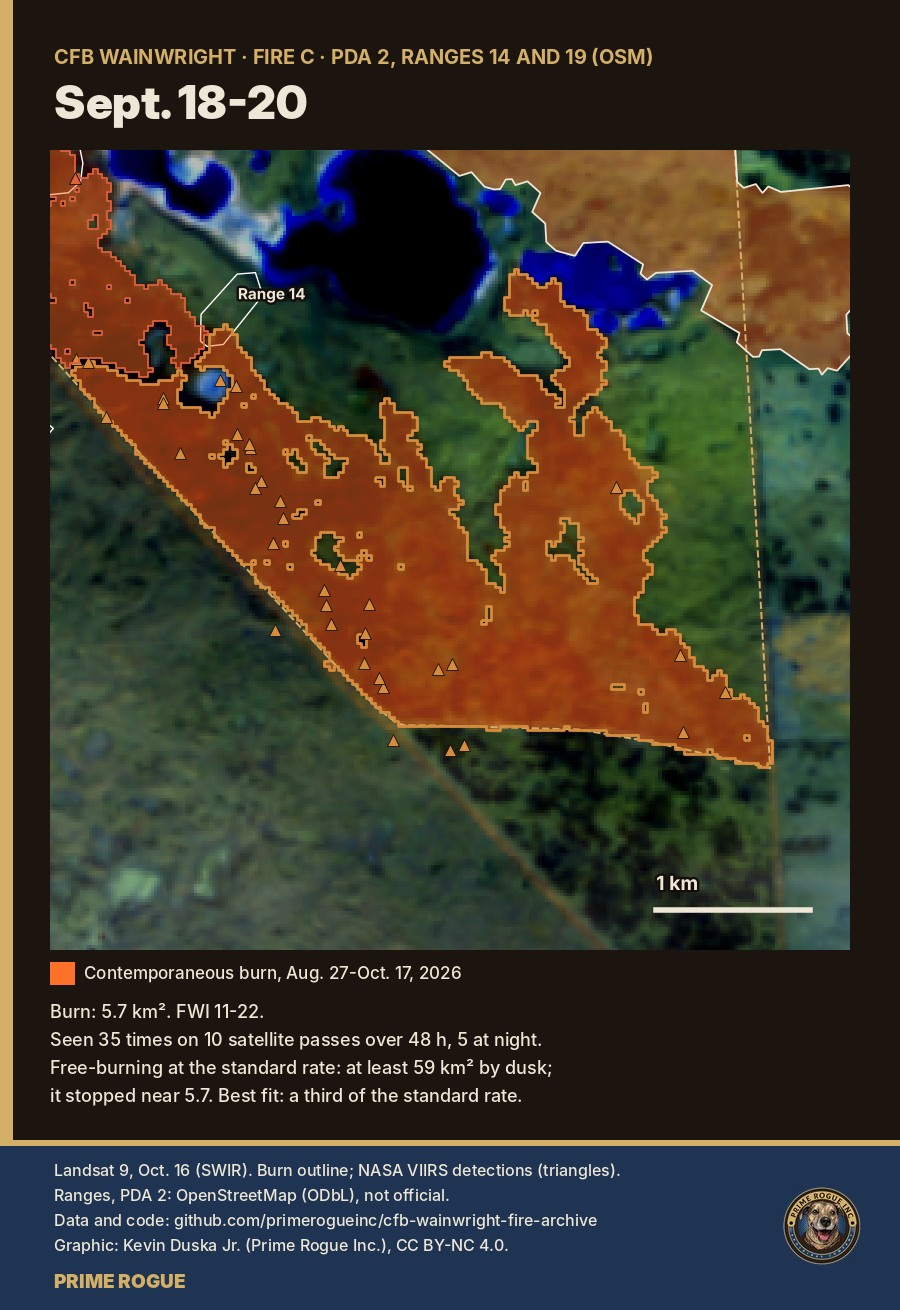
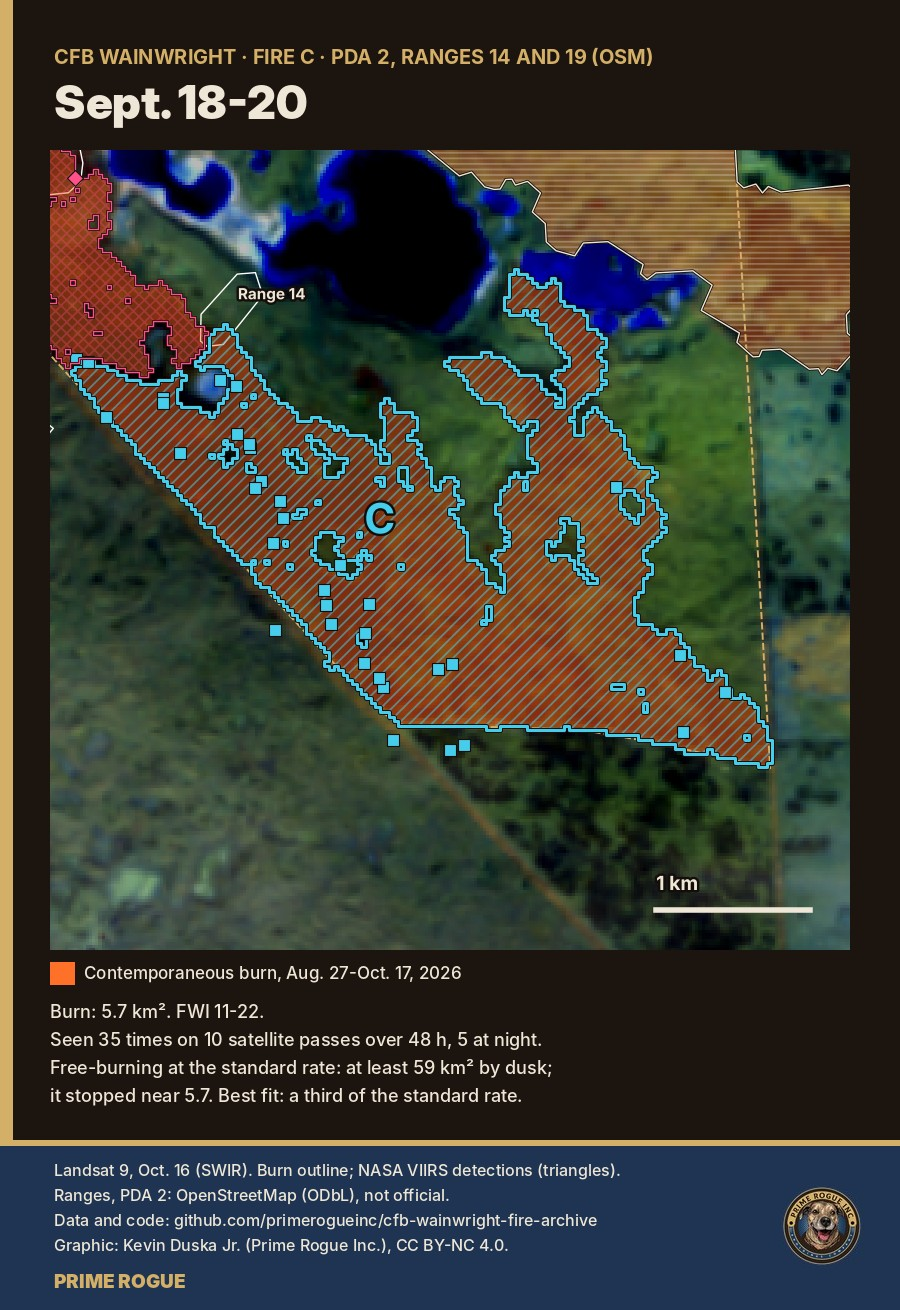
Fire maps: each fire gets its own colour, hatching, letter and detection marker over the common burn fill
Claude-Session: https://claude.ai/code/session_012q8DP5dH322QPmsftUvE6c

Changed region(s): [[0.0622, 0.0916, 0.9644, 0.6107]]

diff --git a/scripts/maps/g36_fires_overview.py b/scripts/maps/g36_fires_overview.py
@@ -8,8 +8,11 @@ from rasterio.transform import from_origin
 from pyproj import Transformer
 import matplotlib.patheffects as pe
 from matplotlib.patches import Rectangle
+matplotlib.rcParams['hatch.linewidth'] = 1.3
 tf = Transformer.from_crs(4326, 3400, always_xy=True).transform
 FC = REPO + "data/fire_compare/"
+HATCH = {"aug27_28": "\\\\\\", "sept16": "...", "sept18_20": "///", "oct14": "xxx", "oct17": "---"}
+MARK = {"aug27_28": "v", "sept16": "o", "sept18_20": "s", "oct14": "D", "oct17": "^"}
 BURN = (255, 112, 40)  # one fill for every burn from Aug. 27-Oct. 17, 2026
 LEG = "Contemporaneous burn, Aug. 27-Oct. 17, 2026"
 F = pd.read_csv(REPO + "data/firms/history_2012-2026/all_detections_merged.csv"); F = F[F.source.str.contains("VIIRS|LANDSAT") & (F.acq_date >= "2026-08-27") & (F.acq_date <= "2026-10-17")]
@@ -22,10 +25,10 @@ def scar(f):
 def summ(f):
     p = FC + f + "/summary.json"; return json.load(open(p)) if os.path.exists(p) else None
 FIRES = [  # id, label, date filter, colour, box half-size (m)
-    ("aug27_28", "A", "Aug. 27-28, Sept. 21", ["2026-08-27", "2026-08-28", "2026-09-21"], (200, 120, 200), 2400),
-    ("sept16", "B", "Sept. 16", ["2026-09-16"], (150, 200, 120), 900),
-    ("sept18_20", "C", "Sept. 18-20", ["2026-09-18", "2026-09-19", "2026-09-20"], (214, 140, 60), 2600),
-    ("oct14", "D", "Oct. 14", ["2026-10-14"], RED, 1200),
+    ("aug27_28", "A", "Aug. 27-28, Sept. 21", ["2026-08-27", "2026-08-28", "2026-09-21"], (190, 120, 255), 2400),
+    ("sept16", "B", "Sept. 16", ["2026-09-16"], (120, 225, 120), 900),
+    ("sept18_20", "C", "Sept. 18-20", ["2026-09-18", "2026-09-19", "2026-09-20"], (70, 205, 235), 2600),
+    ("oct14", "D", "Oct. 14", ["2026-10-14"], (255, 80, 140), 1200),
     ("oct17", "E", "Oct. 17", ["2026-10-17"], CREAM, 3000)]
 x0, y0 = tf(-111.10, 52.845); x1, y1 = tf(-110.82, 52.695); RES = 20; W_, H_ = int((x1 - x0) / RES), int((y0 - y1) / RES); T = from_origin(x0, y0, RES, RES)
 L = glob.glob("/home/claude/cfb-wainwright-landsat-8-9/landsat/2026-10-16/*/*B7.TIF")[0].replace("B7.TIF", "B%s.TIF")
@@ -42,13 +45,18 @@ def draw(ax, focus=None):
         c = g.representative_point(); ax.annotate(nm, (c.x, c.y), (4, 4), textcoords="offset points", **st(CREAM, 9 if focus is None else 11))
     for fid, lab, nm, dates, col, half in FIRES:
         g = s17 if fid == "oct17" else scar(fid)
-        if g is not None: g.plot(ax=ax, color=hx(BURN), alpha=0.45, lw=0); g.boundary.plot(ax=ax, color=hx(col), lw=2.0 if focus == fid else 1.3)
+        if g is not None:
+            g.plot(ax=ax, color=hx(BURN), alpha=0.42, lw=0)
+            g.plot(ax=ax, facecolor="none", edgecolor=hx(col), hatch=HATCH[fid], lw=0, alpha=0.55 if focus in (None, fid) else 0.3)
+            g.boundary.plot(ax=ax, color=hx(INK), lw=3.6 if focus in (None, fid) else 2.2); g.boundary.plot(ax=ax, color=hx(col), lw=2.2 if focus in (None, fid) else 1.0)
+            if focus is None or focus == fid:
+                c = g.geometry.union_all().representative_point(); ax.text(c.x, c.y, lab, ha="center", va="center", **st(col, 22 if focus is None else 30))
         d = F[F.acq_date.isin(dates)]
         if fid == "oct17": d = d[d.mdt.dt.hour < 15]
         else:
             c = {"aug27_28": (52.728, -111.04), "sept16": (52.825, -110.858), "sept18_20": (52.73, -110.91), "oct14": (52.7549, -110.9389)}[fid]
             d = d[np.hypot((d.latitude - c[0]) * 111, (d.longitude - c[1]) * 67.4) < 4]
-        px, py = tf(d.longitude.values, d.latitude.values); ax.plot(px, py, "^", ms=5 if focus is None else 8, mfc=hx(col), mec=hx(INK), mew=0.6)
+        px, py = tf(d.longitude.values, d.latitude.values); ax.plot(px, py, MARK[fid], ms=5 if focus is None else 8, mfc=hx(col), mec=hx(INK), mew=0.8)
 CENT = {}
 for fid, lab, nm, dates, col, half in FIRES:
     g = s17 if fid == "oct17" else scar(fid)
@@ -57,7 +65,7 @@ for fid, lab, nm, dates, col, half in FIRES:
 f, ax = fig(980, 760); draw(ax)
 for fid, lab, nm, dates, col, half in FIRES:
     cx, cy = CENT[fid]; ax.add_patch(Rectangle((cx - half, cy - half), 2 * half, 2 * half, fill=False, ec=hx(col), lw=2.2))
-    ax.text(cx - half + 120, cy + half - 420, lab, **st(col, 22))
+    if fid == "sept16": ax.text(cx - half + 120, cy + half - 420, lab, **st(col, 22))
 x, y = tf(-111.0, 52.792); ax.text(x, y, "Permanent Danger Area 2\n(dashed, OpenStreetMap)", **st(GOLD, 12))
 xb = EXT[1] - 2600; yb = EXT[2] + 500; ax.plot([xb, xb + 2000], [yb, yb], color=hx(CREAM), lw=3); ax.text(xb, yb + 150, "2 km", **st(CREAM, 11))
 ax.set_xlim(EXT[0], EXT[1]); ax.set_ylim(EXT[2], EXT[3]); ax.set_axis_off(); f.subplots_adjust(0, 0, 1, 1); OV = to_img(f)
@@ -72,10 +80,10 @@ for fid, lab, nm, dates, col, half in FIRES:
 W, H = 1600, 1560
 im, d = canvas(W, H, "CFB WAINWRIGHT FIRE · EVERY FIRE SATELLITES SAW, AUG. 27-OCT. 17, 2026",
                "Five fires in seven weeks, all but one inside permanent danger areas",
-               "Boxes A-E on the overview map are shown up close below. Outlines: burn scars from Sentinel-2 (Oct. 4) and Landsat 9 (Oct. 16); triangles: NASA VIIRS fire detections.\n"
+               "Boxes A-E on the overview map are shown up close below. Outlines: burn scars from Sentinel-2 (Oct. 4) and Landsat 9 (Oct. 16); markers: NASA VIIRS fire detections.\n"
                "Background: Landsat 9 shortwave infrared, Oct. 16 (before the Oct. 17 fire; its outline is the final scar).")
 im.paste(OV, (54, 205)); d = ImageDraw.Draw(im)
-d.rectangle([70, 205 + 760 - 44, 96, 205 + 760 - 22], fill=BURN); label(d, (104, 205 + 760 - 48), LEG + "  (outline colour = fire A-E; A also includes older burns)", col=CREAM, size=15)
+d.rectangle([70, 205 + 760 - 44, 96, 205 + 760 - 22], fill=BURN); label(d, (104, 205 + 760 - 48), "Orange fill: contemporaneous burn, Aug. 27-Oct. 17, 2026. Each fire: its own colour, hatching, letter and marker.", col=CREAM, size=14)
 # right column: comparison list
 xr = 54 + 980 + 30; y = 205
 d.text((xr, y), "How each fire behaved", font=B(22), fill=GOLD); y += 40
@@ -99,8 +107,10 @@ def fmt(fid):
     if fid == "aug27_28": out.append("Seen again Sept. 21, 1:42-3:23 p.m., same scar.")
     return out
 for fid, lab, nm, dates, col, half in FIRES:
-    d.text((xr, y), f"{lab}  {nm}", font=B(19), fill=col); y += 28
-    for l in fmt(fid): d.text((xr + 30, y), l, font=M(15), fill=CREAM); y += 23
+    d.rectangle([xr, y + 2, xr + 34, y + 24], fill=BURN, outline=col, width=4)
+    MK = {"aug27_28": "▼", "sept16": "●", "sept18_20": "■", "oct14": "◆", "oct17": "▲"}[fid]
+    d.text((xr + 44, y), f"{lab}  {nm}", font=B(19), fill=col); d.text((xr + 44 + d.textlength(f"{lab}  {nm}", font=B(19)) + 10, y + 1), MK, font=M(17), fill=col); y += 28
+    for l in fmt(fid): d.text((xr + 44, y), l, font=M(15), fill=CREAM); y += 23
     y += 12
 # panels
 py = 205 + 760 + 30

diff --git a/scripts/maps/g35_oct14_fire.py b/scripts/maps/g35_oct14_fire.py
@@ -7,6 +7,8 @@ from rasterio.warp import reproject, Resampling
 from rasterio.transform import from_origin
 from pyproj import Transformer
 import matplotlib.patheffects as pe
+matplotlib.rcParams['hatch.linewidth'] = 1.3
+CC, CD = (70, 205, 235), (255, 80, 140)
 tf = Transformer.from_crs(4326, 3400, always_xy=True).transform
 BR = gpd.read_file(REPO + "data/oct14_fire/burns.geojson").to_crs(3400)
 scar = gpd.read_file(REPO + "data/infrastructure/scar_patches_revised.geojson").to_crs(3400); s17 = scar[scar.patch == "main Oct 17 run"]
@@ -34,16 +36,16 @@ SEPT = gpd.GeoSeries([_shape(g) for g, v in _ft.shapes(sept.astype("uint8"), mas
 lo, hi = np.percentile(rgb, 2, axis=(0, 1)), np.percentile(rgb, 98, axis=(0, 1)); rgb = np.clip((rgb - lo) / (hi - lo), 0, 1) * 0.75
 f, ax = fig(860, 860); ax.imshow(rgb, extent=[x0, x0 + W_ * RES, y0 - H_ * RES, y0])
 pda2.boundary.plot(ax=ax, color=hx(GOLD), lw=1.6, ls="--")
-s17.plot(ax=ax, color=hx((255, 112, 40)), alpha=0.45, lw=0); s17.boundary.plot(ax=ax, color=hx(CREAM), lw=1.2)
-SEPT.plot(ax=ax, color=hx((255, 112, 40)), alpha=0.45, lw=0); SEPT.boundary.plot(ax=ax, color=hx((214, 140, 60)), lw=1.0)
-BR[BR.name == "oct14_burn"].plot(ax=ax, color=hx((255, 112, 40)), alpha=0.45, lw=0); BR[BR.name == "oct14_burn"].boundary.plot(ax=ax, color=hx(RED), lw=1.5)
-fx, fy = tf(F.longitude.values, F.latitude.values); ax.plot(fx, fy, "^", ms=6, mfc="none", mec=hx(YEL), mew=1.4)
-vx, vy = tf(-110.93891, 52.75486); ax.plot(vx, vy, "^", ms=12, mfc=hx(YEL), mec=hx(INK), mew=1.2)
+s17.plot(ax=ax, color=hx((255, 112, 40)), alpha=0.42, lw=0); s17.plot(ax=ax, facecolor="none", edgecolor=hx(CREAM), hatch="---", lw=0, alpha=0.5); s17.boundary.plot(ax=ax, color=hx(CREAM), lw=1.6)
+SEPT.plot(ax=ax, color=hx((255, 112, 40)), alpha=0.42, lw=0); SEPT.plot(ax=ax, facecolor="none", edgecolor=hx(CC), hatch="///", lw=0, alpha=0.55); SEPT.boundary.plot(ax=ax, color=hx(INK), lw=3.4); SEPT.boundary.plot(ax=ax, color=hx(CC), lw=2.0)
+O14 = BR[BR.name == "oct14_burn"]; O14.plot(ax=ax, color=hx((255, 112, 40)), alpha=0.42, lw=0); O14.plot(ax=ax, facecolor="none", edgecolor=hx(CD), hatch="xxx", lw=0, alpha=0.55); O14.boundary.plot(ax=ax, color=hx(INK), lw=3.4); O14.boundary.plot(ax=ax, color=hx(CD), lw=2.0)
+fx, fy = tf(F.longitude.values, F.latitude.values); ax.plot(fx, fy, "s", ms=6, mfc=hx(CC), mec=hx(INK), mew=0.8)
+vx, vy = tf(-110.93891, 52.75486); ax.plot(vx, vy, "D", ms=11, mfc=hx(CD), mec=hx(INK), mew=1.2)
 ig = fit["_sunset"]["top15"][:6]; ix, iy = tf([p["lon"] for p in ig], [p["lat"] for p in ig]); ax.plot(ix, iy, "x", ms=9, mew=2.4, color="white")
 st = dict(color=hx(CREAM), fontsize=13, weight="bold", path_effects=[pe.withStroke(linewidth=3.5, foreground=hx(INK))])
 for nm, (lo_, la_), off in (("Range 11", (-110.9577, 52.7678), (-70, 8)), ("Range 13", (-110.94249, 52.75627), (-82, 2)), ("Range 2", (-110.9063, 52.7728), (8, 6))):
     x, y = tf(lo_, la_); ax.plot(x, y, "o", ms=8, mfc="white", mec="k"); ax.annotate(nm, (x, y), off, textcoords="offset points", **st)
-for txt, (lo_, la_), c in (("Oct. 17 burn", (-110.905, 52.792), CREAM), ("Sept. 18-20 burn", (-110.905, 52.733), (240, 170, 90)), ("Oct. 14 burn", (-110.975, 52.742), RED), ("Permanent Danger Area 2\n(OpenStreetMap)", (-110.982, 52.792), GOLD)):
+for txt, (lo_, la_), c in (("Oct. 17 burn", (-110.905, 52.792), CREAM), ("Sept. 18-20 burn", (-110.905, 52.733), CC), ("Oct. 14 burn", (-110.975, 52.742), CD), ("Permanent Danger Area 2\n(OpenStreetMap)", (-110.982, 52.792), GOLD)):
     x, y = tf(lo_, la_); ax.text(x, y, txt, color=hx(c), fontsize=14, weight="bold", path_effects=[pe.withStroke(linewidth=3.5, foreground=hx(INK))])
 ax.set_xlim(x0, x1); ax.set_ylim(y1, y0); ax.set_axis_off(); f.subplots_adjust(0, 0, 1, 1); mp = to_img(f)
 # right panel: how big it should have been
@@ -72,12 +74,12 @@ for l, fnt, col in (("Free-burning at the standard grass-fire rate, a fire seen 
                     ("fire did before its wind shift, and started early, around", M(16), CREAM), ("6-8:30 a.m. (the earliest we tested). Or it was put out.", M(16), CREAM), ("", M(10), CREAM),
                     ("Satellite fire detections in the training area", B(18), GOLD),
                     ("Sept. 16  1:34 p.m.   north-east of the base", M(15), CREAM), ("Sept. 18  3:14 p.m.   PDA 2, about 5 km SE of the Oct. 14 burn", M(15), CREAM),
-                    ("Sept. 20  3:07 a.m. to 2:55 p.m.   PDA 2, same fire (31)", B(15), (240, 170, 90)), ("Sept. 21  1:42 p.m.   PDA 3A F1, 9.5 km west", M(15), CREAM),
-                    ("Oct. 14   2:51 p.m.   PDA 2, at Range 13", B(15), RED), ("Oct. 17   12:17 p.m. onward   PDA 2", B(15), CREAM)):
+                    ("Sept. 20  3:07 a.m. to 2:55 p.m.   PDA 2, same fire (31)", B(15), CC), ("Sept. 21  1:42 p.m.   PDA 3A F1, 9.5 km west", M(15), CREAM),
+                    ("Oct. 14   2:51 p.m.   PDA 2, at Range 13", B(15), CD), ("Oct. 17   12:17 p.m. onward   PDA 2", B(15), CREAM)):
     d.text((xr, y), l, font=fnt, fill=col); y += 27
 lx, ly = 70, 200 + 860 - 90
-d.rectangle([lx, ly - 30, lx + 24, ly - 8], fill=(255, 112, 40)); label(d, (lx + 32, ly - 34), "Contemporaneous burn (outline: amber Sept. 18-20, red Oct. 14, white Oct. 17)", col=CREAM, size=15)
-for sym, txt in (("▲", "VIIRS detections: Sept. 20 (open), Oct. 14 (filled)"), ("x", "Best-fit start points for the Oct. 14 fire (model)")):
+d.rectangle([lx, ly - 30, lx + 24, ly - 8], fill=(255, 112, 40)); label(d, (lx + 32, ly - 34), "Contemporaneous burn; outline/hatch: cyan Sept. 18-20, pink Oct. 14, white Oct. 17", col=CREAM, size=15)
+for sym, txt in (("■ ◆", "VIIRS detections: Sept. 20 (squares), Oct. 14 (diamond)"), ("x", "Best-fit start points for the Oct. 14 fire (model)")):
     label(d, (lx, ly), f"{sym}  {txt}", col=CREAM, size=15); ly += 34
 footer(im, ["Burns: Sentinel-2 Oct. 4 (L2A) vs Landsat 9 Oct. 16 (TOA), NBR thresholds per sensor (Oct. 14 burn 0.91-1.13 km² across thresholds); Sept. 20 burn as seen Oct. 4.",
             "Detections: NASA FIRMS (VIIRS S-NPP, NOAA-20, NOAA-21), MDT. Model: FBP O-1a, 95% curing, CZWN hourly weather, 9,180+ runs per variant.",
